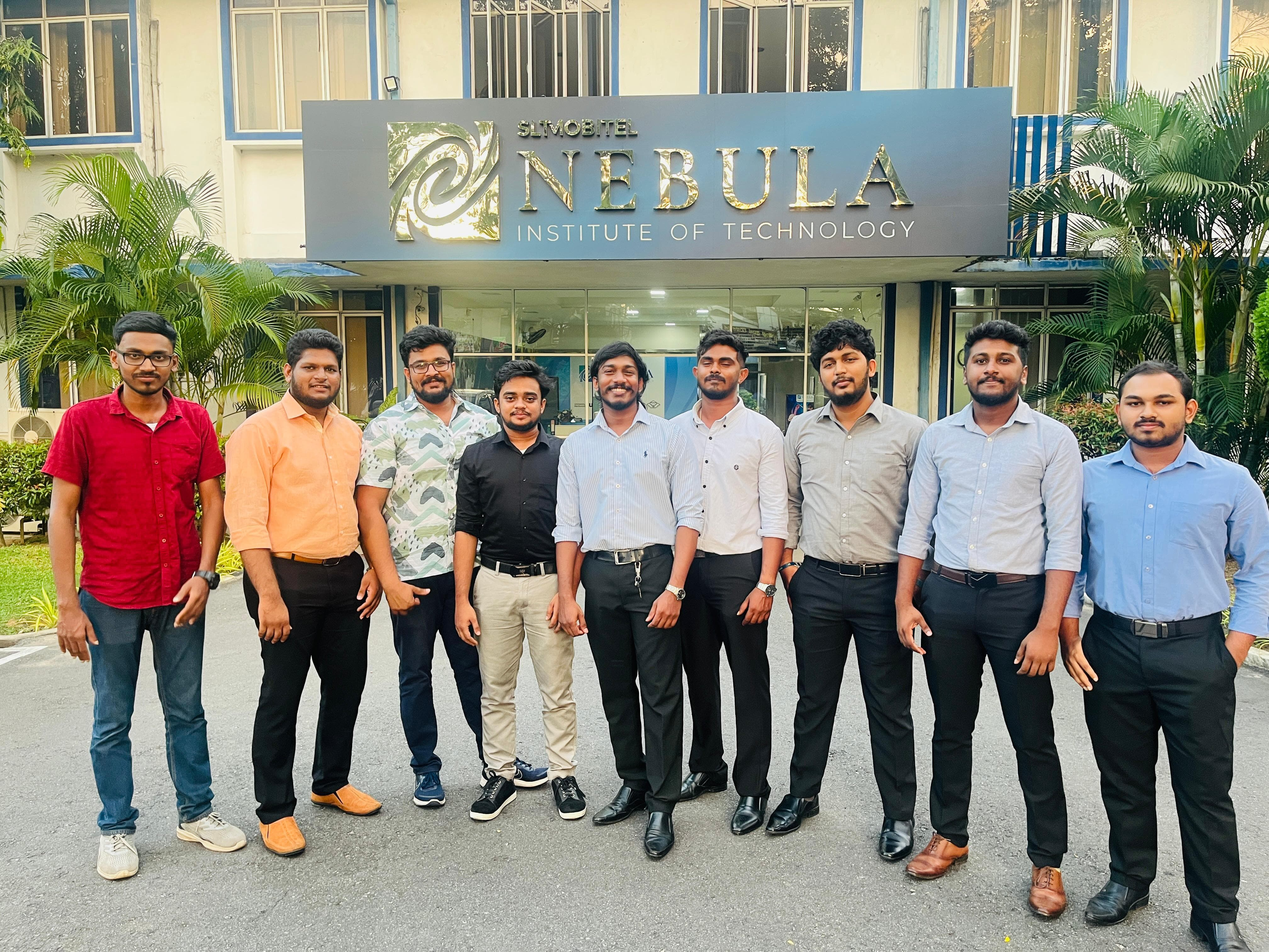
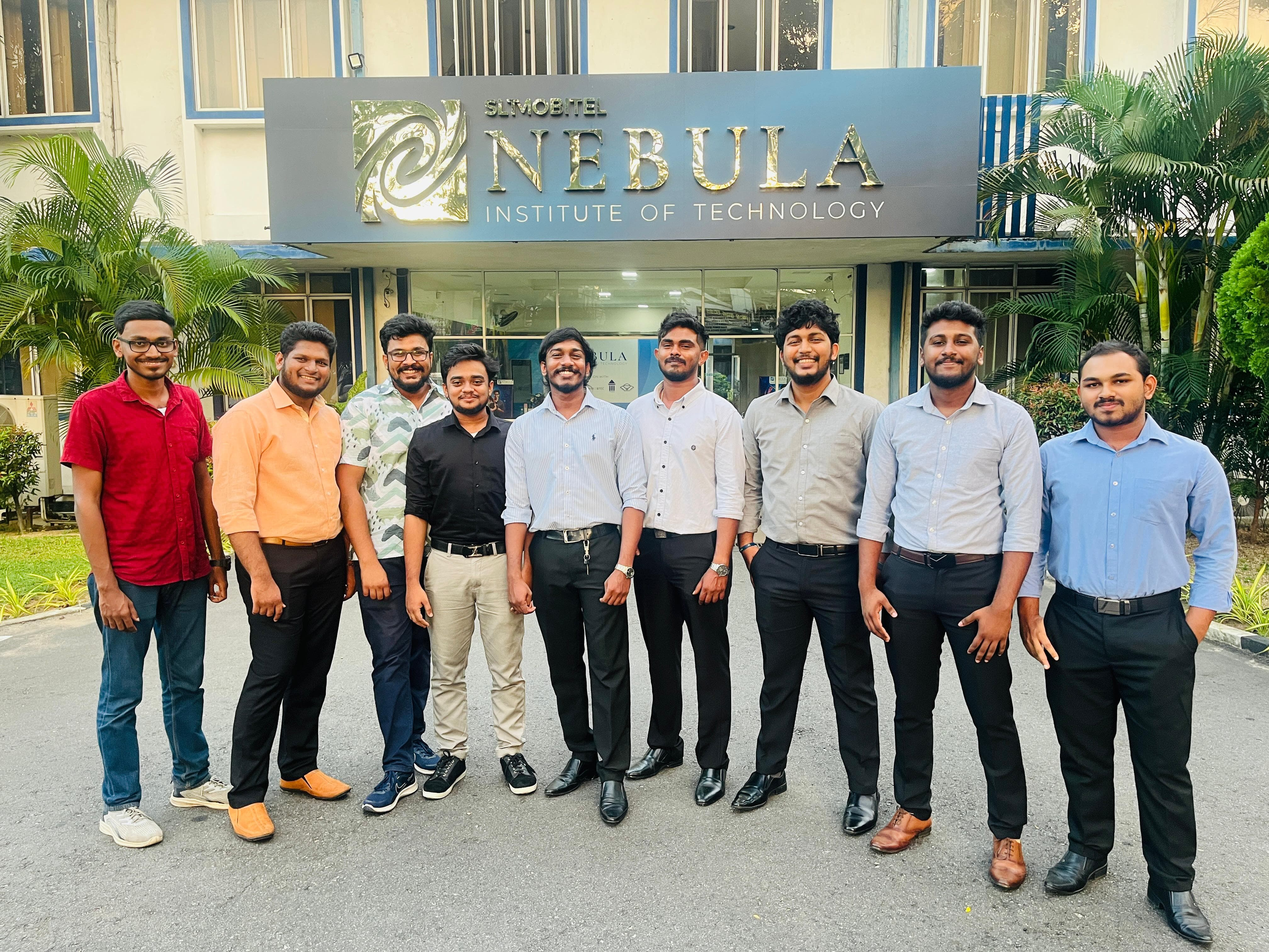
Team Phases Team Pictures 2

diff --git a/storage/framework/views/9d89e29af7b0e0508954d0b0e47f6924.php b/storage/framework/views/9d89e29af7b0e0508954d0b0e47f6924.php
@@ -9,7 +9,7 @@
 
       <!-- Header -->
       <div class="d-flex justify-content-between align-items-center mb-4">
-        <h3 class="fw-bold mb-0 text-primary">Team and Phase Management</h3>
+        <h3 class="fw-bold mb-0 text-primary">Nebula IT Team</h3>
         <div>
           <small class="text-muted">Manage project phases and team members</small>
           <?php if($isDeveloper): ?>
@@ -136,32 +136,32 @@
           <?php endif; ?>
         </div>
         <div id="teamImageSlider" class="carousel slide mb-4" data-bs-ride="carousel">
-  <div class="carousel-inner">
-    <div class="carousel-item active">
-      <img src="<?php echo e(asset('images/logos/nebula.png')); ?>" class="d-block w-100" alt="Image 1">
-    </div>
-    <div class="carousel-item">
-      <img src="<?php echo e(asset('images/image2.jpg')); ?>" class="d-block w-100" alt="Image 2">
-    </div>
-    <div class="carousel-item">
-      <img src="<?php echo e(asset('images/image3.jpg')); ?>" class="d-block w-100" alt="Image 3">
-    </div>
-    <div class="carousel-item">
-      <img src="<?php echo e(asset('images/image4.jpg')); ?>" class="d-block w-100" alt="Image 4">
-    </div>
-    <div class="carousel-item">
-      <img src="<?php echo e(asset('images/image5.jpg')); ?>" class="d-block w-100" alt="Image 5">
-    </div>
-  </div>
-  <button class="carousel-control-prev" type="button" data-bs-target="#teamImageSlider" data-bs-slide="prev">
-    <span class="carousel-control-prev-icon" aria-hidden="true"></span>
-    <span class="visually-hidden">Previous</span>
-  </button>
-  <button class="carousel-control-next" type="button" data-bs-target="#teamImageSlider" data-bs-slide="next">
-    <span class="carousel-control-next-icon" aria-hidden="true"></span>
-    <span class="visually-hidden">Next</span>
-  </button>
-</div>
+        <div class="carousel-inner">
+          <div class="carousel-item active">
+            <img src="<?php echo e(asset('images/team/1.jpg')); ?>" class="d-block w-100" alt="Image 1">
+          </div>
+          <div class="carousel-item">
+            <img src="<?php echo e(asset('images/team/3.jpg')); ?>" class="d-block w-100" alt="Image 2">
+          </div>
+          <div class="carousel-item">
+            <img src="<?php echo e(asset('images/team/4.jpg')); ?>" class="d-block w-100" alt="Image 5">
+          </div>
+          <div class="carousel-item">
+            <img src="<?php echo e(asset('images/team/5.jpg')); ?>" class="d-block w-100" alt="Image 5">
+          </div>
+          <div class="carousel-item">
+            <img src="<?php echo e(asset('images/team/7.jpg')); ?>" class="d-block w-100" alt="Image 5">
+          </div>
+        </div>
+        <button class="carousel-control-prev" type="button" data-bs-target="#teamImageSlider" data-bs-slide="prev">
+          <span class="carousel-control-prev-icon" aria-hidden="true"></span>
+          <span class="visually-hidden">Previous</span>
+        </button>
+        <button class="carousel-control-next" type="button" data-bs-target="#teamImageSlider" data-bs-slide="next">
+          <span class="carousel-control-next-icon" aria-hidden="true"></span>
+          <span class="visually-hidden">Next</span>
+        </button>
+      </div>
 
         <div class="card-body bg-white">
           <?php $__currentLoopData = $phases; $__env->addLoop($__currentLoopData); foreach($__currentLoopData as $phase): $__env->incrementLoopIndices(); $loop = $__env->getLastLoop(); ?>
@@ -765,7 +765,7 @@ function confirmRemovePhase(url) {
     align-items: center;
 }
 #teamImageSlider img {
-    height: 100px;
+    height: 250px;
     object-fit: cover;
 }
 

diff --git a/resources/views/team_phase/index.blade.php b/resources/views/team_phase/index.blade.php
@@ -9,7 +9,7 @@
 
       <!-- Header -->
       <div class="d-flex justify-content-between align-items-center mb-4">
-        <h3 class="fw-bold mb-0 text-primary">Team and Phase Management</h3>
+        <h3 class="fw-bold mb-0 text-primary">Nebula IT Team</h3>
         <div>
           <small class="text-muted">Manage project phases and team members</small>
           @if($isDeveloper)
@@ -138,19 +138,19 @@
         <div id="teamImageSlider" class="carousel slide mb-4" data-bs-ride="carousel">
         <div class="carousel-inner">
           <div class="carousel-item active">
-            <img src="{{ asset('images/logos/nebula.png') }}" class="d-block w-100" alt="Image 1">
+            <img src="{{ asset('images/team/1.jpg') }}" class="d-block w-100" alt="Image 1">
           </div>
           <div class="carousel-item">
-            <img src="{{ asset('images/image2.jpg') }}" class="d-block w-100" alt="Image 2">
+            <img src="{{ asset('images/team/3.jpg') }}" class="d-block w-100" alt="Image 2">
           </div>
           <div class="carousel-item">
-            <img src="{{ asset('images/image3.jpg') }}" class="d-block w-100" alt="Image 3">
+            <img src="{{ asset('images/team/4.jpg') }}" class="d-block w-100" alt="Image 5">
           </div>
           <div class="carousel-item">
-            <img src="{{ asset('images/image4.jpg') }}" class="d-block w-100" alt="Image 4">
+            <img src="{{ asset('images/team/5.jpg') }}" class="d-block w-100" alt="Image 5">
           </div>
           <div class="carousel-item">
-            <img src="{{ asset('images/image5.jpg') }}" class="d-block w-100" alt="Image 5">
+            <img src="{{ asset('images/team/7.jpg') }}" class="d-block w-100" alt="Image 5">
           </div>
         </div>
         <button class="carousel-control-prev" type="button" data-bs-target="#teamImageSlider" data-bs-slide="prev">
